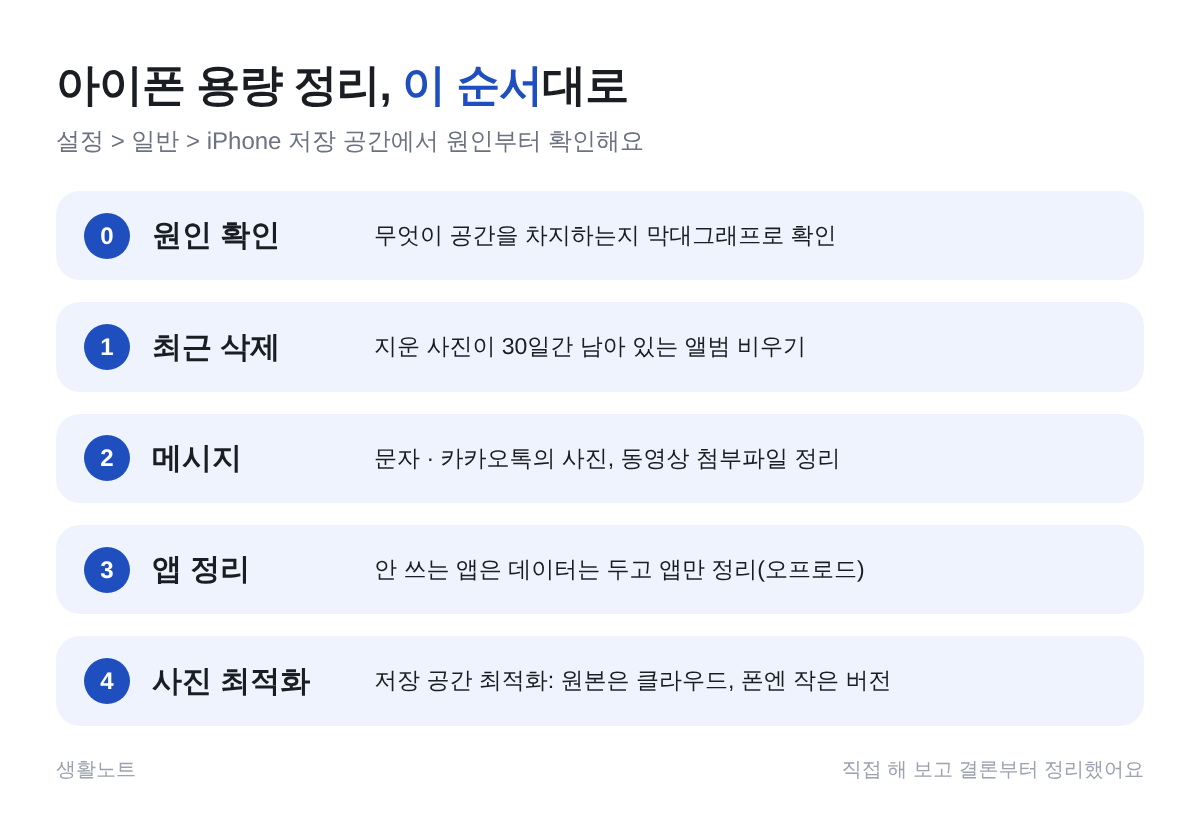
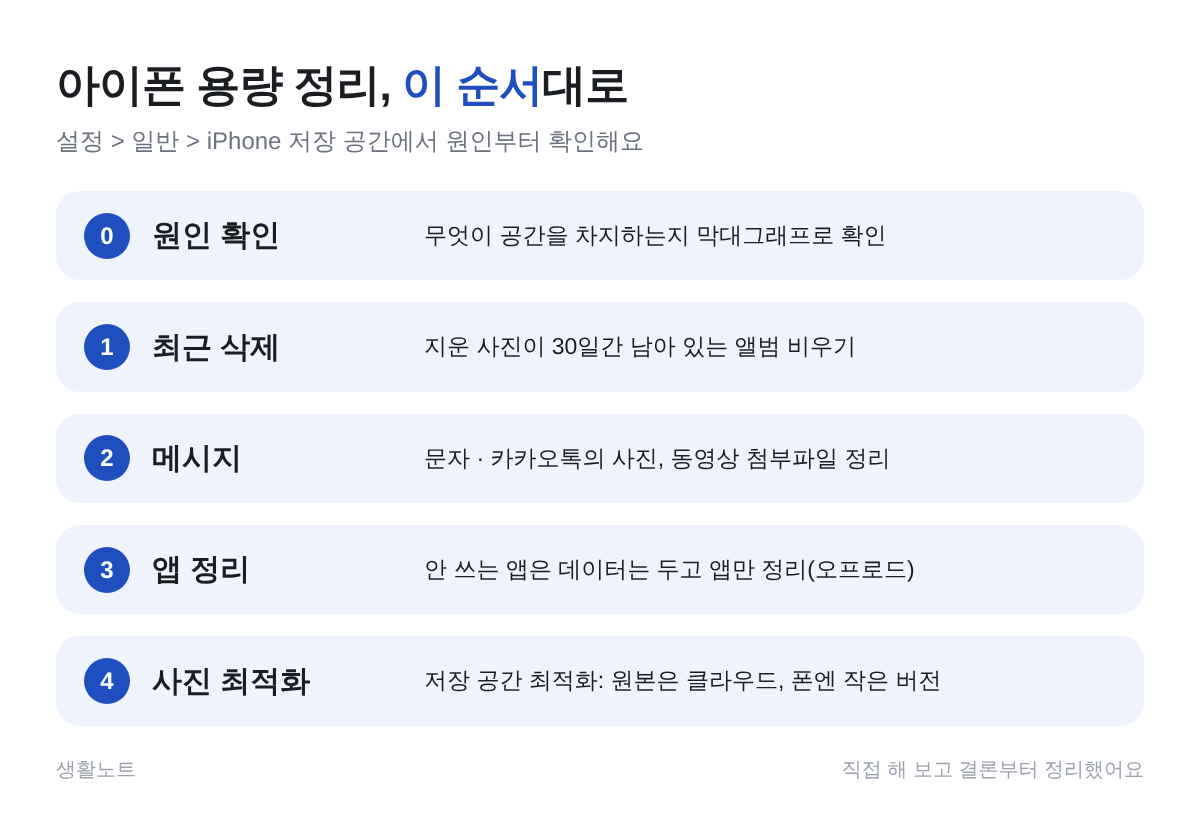
글마다 소제목 사이에 요약 그림 추가 (총 12장)
Claude-Session: https://claude.ai/code/session_01A6kydks4rf79zYLXYWZ6Pq

diff --git a/lib/content.ts b/lib/content.ts
@@ -89,7 +89,9 @@ function render(markdown: string) {
   });
   const html = (md.parse(markdown, { async: false }) as string)
     // 본문 속 "/posts/..." 같은 내부 주소와 이미지 주소에도 basePath를 붙여요.
-    .replace(/(src|href)="\/(?!\/)/g, `$1="${basePath}/`);
+    .replace(/(src|href)="\/(?!\/)/g, `$1="${basePath}/`)
+    // 본문 이미지는 화면에 보일 때 불러와서 페이지가 빨리 열려요.
+    .replace(/<img /g, '<img loading="lazy" ');
   return { html, headings };
 }
 

diff --git a/content/posts/pacifier-weaning-age-how-to.md b/content/posts/pacifier-weaning-age-how-to.md
@@ -31,6 +31,8 @@ faq:
 
 ## 쪽쪽이, 왜 끊어야 할까요?
 
+![쪽쪽이를 끊어야 하는 이유: 6개월 이후 중이염, 만 2~3세 이후 치아와 턱, 돌 이후 말하기](/images/posts/pacifier-weaning-age-how-to/why.png)
+
 쪽쪽이는 아기를 달래고 잠들게 하는 데 정말 큰 도움이 돼요. 다만 오래 쓰면 아래 두 가지가 문제가 될 수 있어요.
 
 | 걱정되는 점 | 내용 | 관련 시기 |
@@ -55,6 +57,8 @@ faq:
 > 이사, 동생 출산, 어린이집 입소처럼 큰 변화가 있을 때는 아이가 불안해할 수 있어요. 이런 시기는 피하고, 생활이 안정된 2~3주 뒤에 시작하는 게 좋아요.
 
 ## 쪽쪽이 끊는 방법 3가지
+
+![쪽쪽이 끊는 방법 3가지: 서서히 줄이기, 한 번에 끊기, 작별 의식](/images/posts/pacifier-weaning-age-how-to/methods.png)
 
 아이 성향과 나이에 맞는 방법 **하나만** 골라서 꾸준히 해요. 하다가 자꾸 바꾸면 아이가 더 혼란스러워해요.
 
@@ -87,6 +91,8 @@ faq:
 
 ## 밤에 찾으며 울 때 대처법
 
+![쪽쪽이를 찾으며 밤에 울 때 달래는 방법 5가지](/images/posts/pacifier-weaning-age-how-to/night.png)
+
 처음 **3~7일**이 가장 힘들어요. 이 시기만 잘 넘기면 대부분 금방 적응해요.
 
 1. **잠자리 순서를 매일 똑같이** 해요. 목욕 → 수유나 물 → 책 1권 → 불 끄기처럼 정해 두면 쪽쪽이 대신 순서가 잠 신호가 돼요.
@@ -96,6 +102,8 @@ faq:
 5. 아무리 울어도 **쪽쪽이를 다시 주지 않는 게** 중요해요. 한 번 다시 주면 "울면 받을 수 있다"고 배워서 더 오래 걸려요.
 
 ## 이런 방법은 피하세요
+
+![쪽쪽이 끊을 때 피해야 할 방법: 끝 자르기, 쓴 약이나 꿀 바르기, 혼내기, 아플 때 시작하기](/images/posts/pacifier-weaning-age-how-to/avoid.png)
 
 | 하지 말아야 할 방법 | 이유 |
 | --- | --- |

diff --git a/content/posts/baby-first-overseas-trip-checklist.md b/content/posts/baby-first-overseas-trip-checklist.md
@@ -98,6 +98,8 @@ products:
 
 ## 유모차와 아기띠, 무엇을 가져갈까?
 
+![아기 해외여행 유모차와 아기띠 비교: 일정에 따라 고르기](/images/posts/baby-first-overseas-trip-checklist/stroller.png)
+
 둘 다 가져가는 걸 추천하지만, 하나만 고른다면 일정에 따라 달라져요.
 
 | 상황 | 추천 | 이유 |
@@ -110,6 +112,8 @@ products:
 > 기내 반입이 되는 접이식 유모차는 비행기 문 앞까지 쓰고 맡길 수 있어서 공항에서 정말 편해요. 항공사마다 크기 기준이 다르니 예약할 때 확인해 주세요.
 
 ## 짐 줄이는 요령 4가지
+
+![아기 여행 짐 줄이는 요령 4가지](/images/posts/baby-first-overseas-trip-checklist/packing-tips.png)
 
 1. **숙소에 있는 걸 먼저 확인해요.** 아기침대, 욕조, 전자레인지가 있으면 그만큼 뺄 수 있어요.
 2. **기저귀는 압축팩에 넣어요.** 부피가 절반 가까이 줄어요.

diff --git a/content/posts/iphone-baby-photo-tips-settings.md b/content/posts/iphone-baby-photo-tips-settings.md
@@ -55,6 +55,8 @@ products:
 
 ## 2. 움직이는 아기는 연사로 찍기
 
+![아이폰 셔터 버튼 왼쪽으로 끌면 연사, 오른쪽으로 끌면 동영상](/images/posts/iphone-baby-photo-tips-settings/burst.png)
+
 뒤집기, 기어가기, 걸음마처럼 움직임이 많을 땐 한 장씩 찍으면 거의 흔들려요. 이럴 땐 **연사**가 답이에요.
 
 1. 카메라 앱을 **사진** 모드로 열어요.
@@ -65,6 +67,8 @@ products:
 > 셔터 버튼을 오른쪽으로 끌면 연사가 아니라 동영상이 찍혀요. 헷갈리면 "왼쪽은 사진, 오른쪽은 영상"으로 기억하면 돼요.
 
 ## 3. 플래시 끄고 창가 자연광 쓰기
+
+![아기 사진 빛 활용 팁 4가지: 플래시 끄기, 창문 옆, 얇은 커튼, 저녁 조명](/images/posts/iphone-baby-photo-tips-settings/light.png)
 
 아기 사진이 가장 예쁘게 나오는 빛은 **낮 시간 창가로 들어오는 부드러운 빛**이에요.
 

diff --git a/content/posts/iphone-storage-full-cleanup-order.md b/content/posts/iphone-storage-full-cleanup-order.md
@@ -73,6 +73,8 @@ products:
 
 ## 3단계: 안 쓰는 앱 정리하기
 
+![아이폰 앱 정리하기(오프로드), 앱 삭제, 자동 정리 차이](/images/posts/iphone-storage-full-cleanup-order/apps.png)
+
 | 방법 | 하는 일 | 데이터 |
 | --- | --- | --- |
 | 앱 정리하기(오프로드) | 앱 본체만 지움 | 남아 있음 |
@@ -82,6 +84,8 @@ products:
 **추천**: **설정 > 앱 > App Store > 사용하지 않는 앱 정리하기**를 켜 두면, 오래 안 쓴 앱이 알아서 정리돼요. 다시 누르면 바로 설치돼요.
 
 ## 4단계: 사진 지우지 않고 최적화하기
+
+![아이폰 사진 저장 공간 최적화 설정 순서](/images/posts/iphone-storage-full-cleanup-order/optimize.png)
 
 사진을 지우지 않는 핵심 방법이에요.
 

diff --git a/content/posts/diy-first-birthday-table-at-home.md b/content/posts/diy-first-birthday-table-at-home.md
@@ -63,6 +63,8 @@ products:
 
 ### 대여와 구매 비교
 
+![셀프 돌상 세트 대여와 직접 구매 비교](/images/posts/diy-first-birthday-table-at-home/rent-vs-buy.png)
+
 | 구분 | 대여 | 직접 구매 |
 | --- | --- | --- |
 | 장점 | 한 번에 완성된 구성, 보관 걱정 없음 | 원하는 소품만 골라 꾸밀 수 있음 |
@@ -103,6 +105,8 @@ products:
 | 이후 | 식사하고 떡 나누기 |
 
 ### 돌잡이 진행 팁
+
+![돌잡이 진행 팁 4가지](/images/posts/diy-first-birthday-table-at-home/doljabi.png)
 
 - 물건은 **4~6개**가 적당해요. 너무 많으면 아기가 헷갈려 해요.
 - 아기 손이 닿는 거리에 **반원 모양**으로 놓아요.
